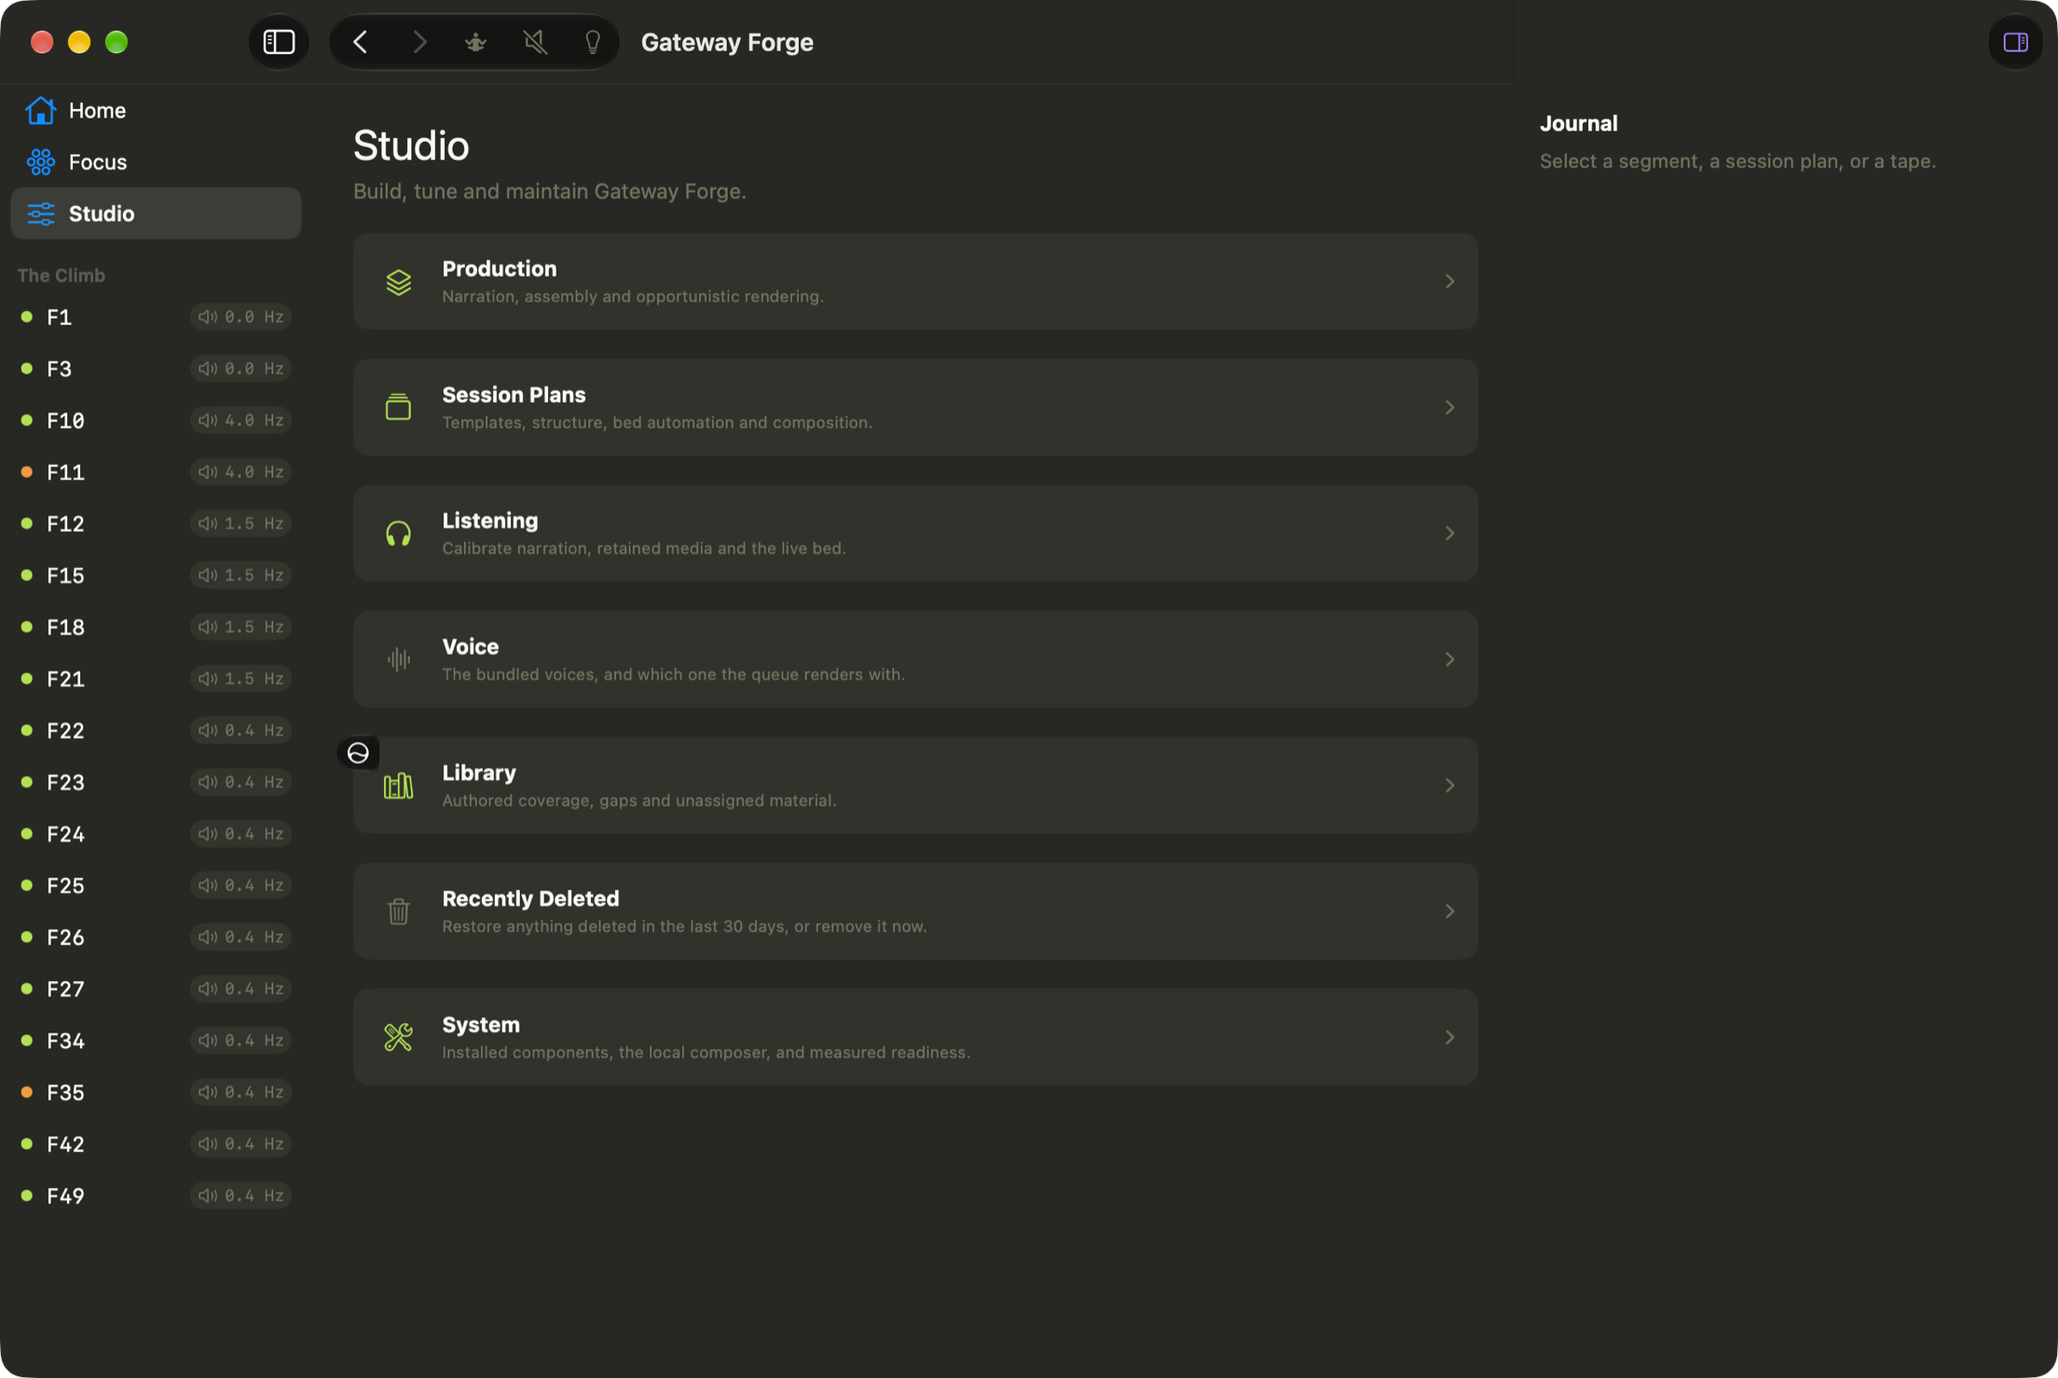
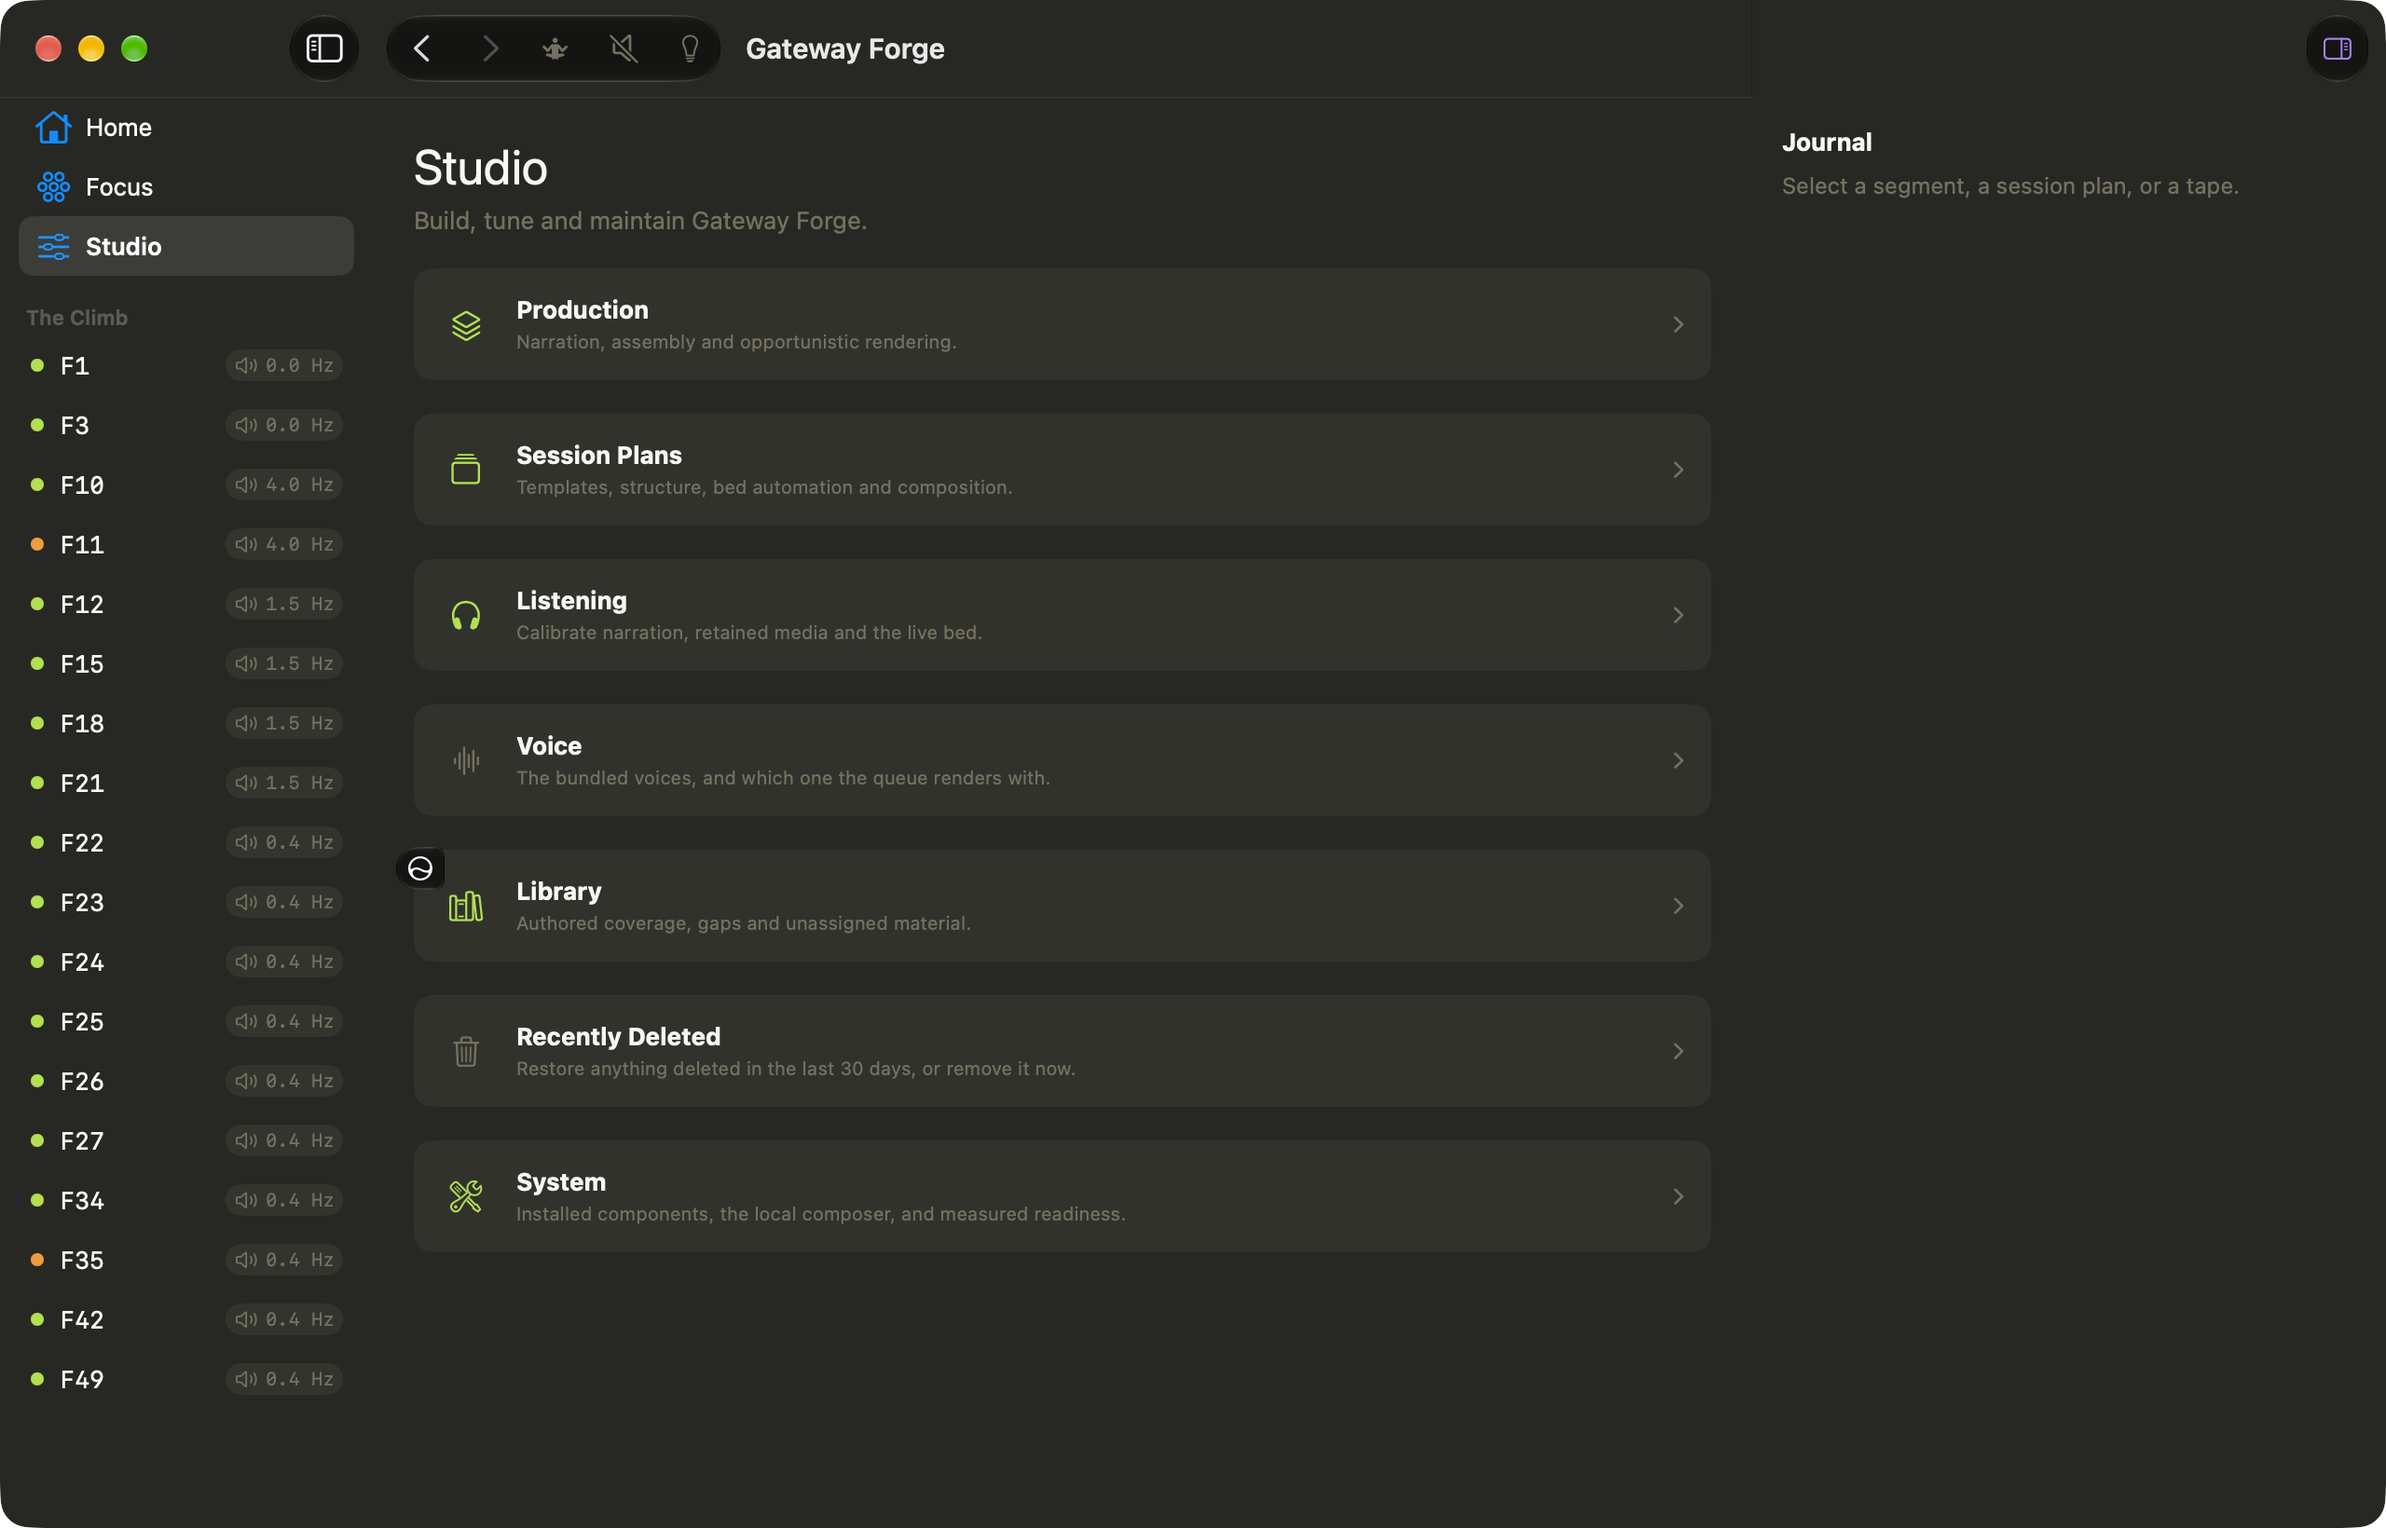
Refresh screenshots for v5.1.1, add cross-platform shot

diff --git a/docs/index.html b/docs/index.html
@@ -291,6 +291,8 @@ footer{padding:44px 0 70px;color:var(--muted);font-size:14px}
   <p class="cap">A level. The measured signal it actually plays, the Institute's published description kept as theirs, and the space for what you found instead — with that level's journal in the right pane rather than behind a separate mode.</p>
   <div class="shot"><img src="img/studio.png" alt="The Studio destinations: Production, Session Plans, Listening, Voice, Library, Recently Deleted, System"></div>
   <p class="cap">Studio, where building and maintenance live so Home never has to carry them.</p>
+  <div class="shot"><img src="img/cross-platform.png" alt="The Windows and Linux build's Home screen: the same climb rail and Focus levels, plus a Library card showing segment, template and voice counts and the on-disk library root path"></div>
+  <p class="cap">Windows and Linux, same core, one deliberate difference: the library root is printed on the Home screen instead of tucked away. macOS is the version built for people who never want to go looking inside an app; the cross-platform build assumes the opposite and shows its own file path up front, next to an in-app footprint panel for managing or clearing it.</p>
   <div class="ladder-wrap">
     <div class="ladder" id="ladderSvg"></div>
   </div>
